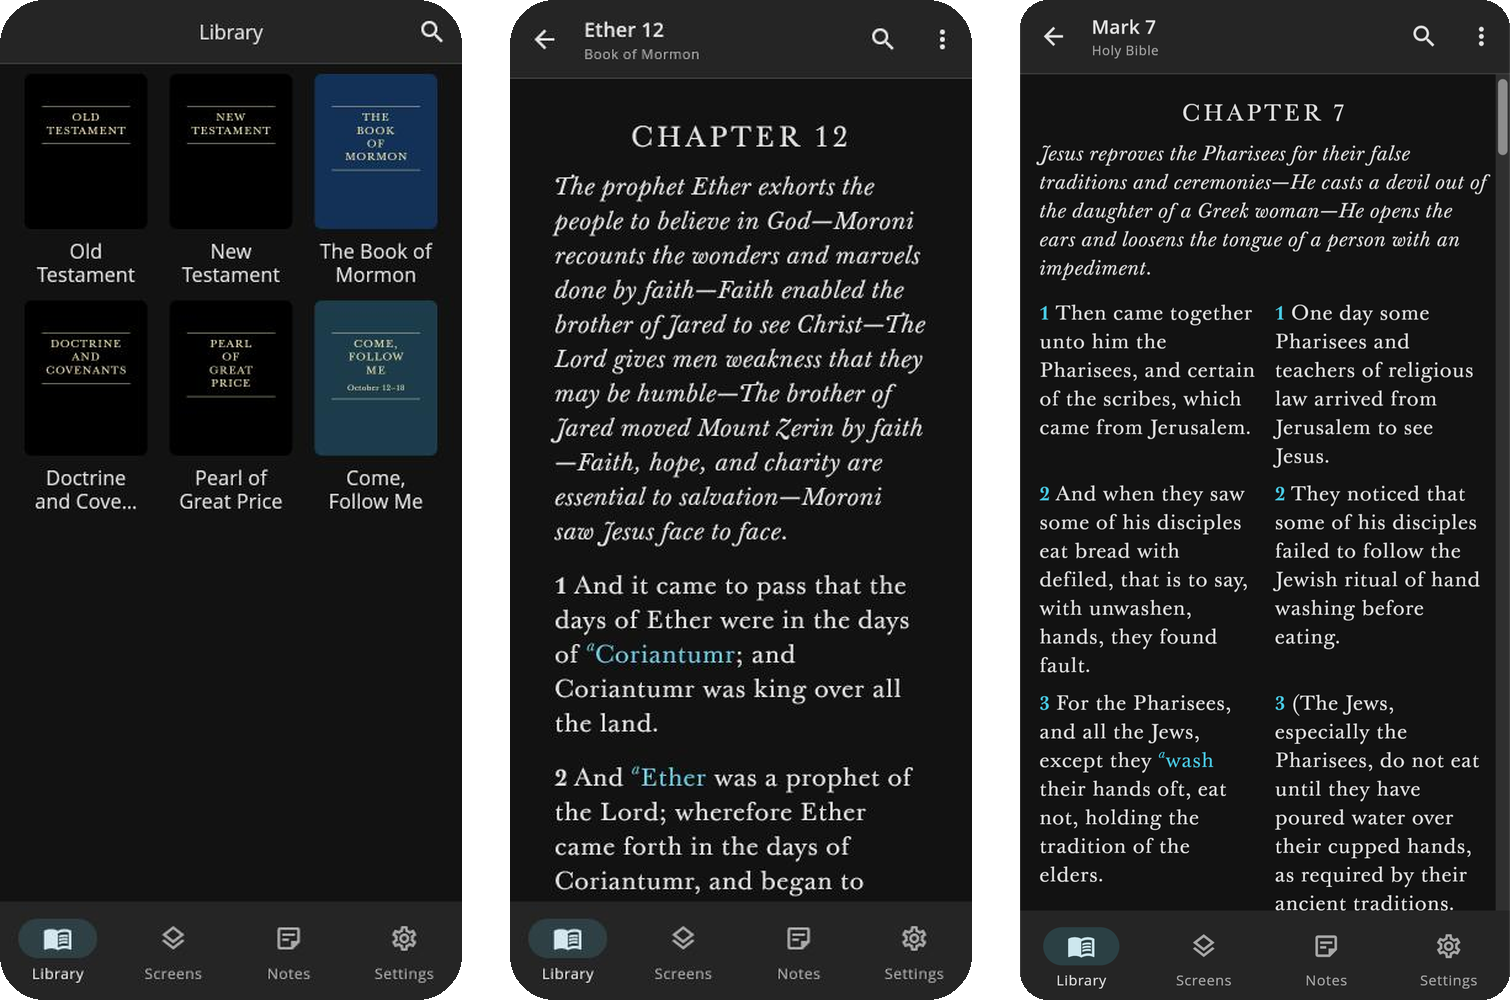
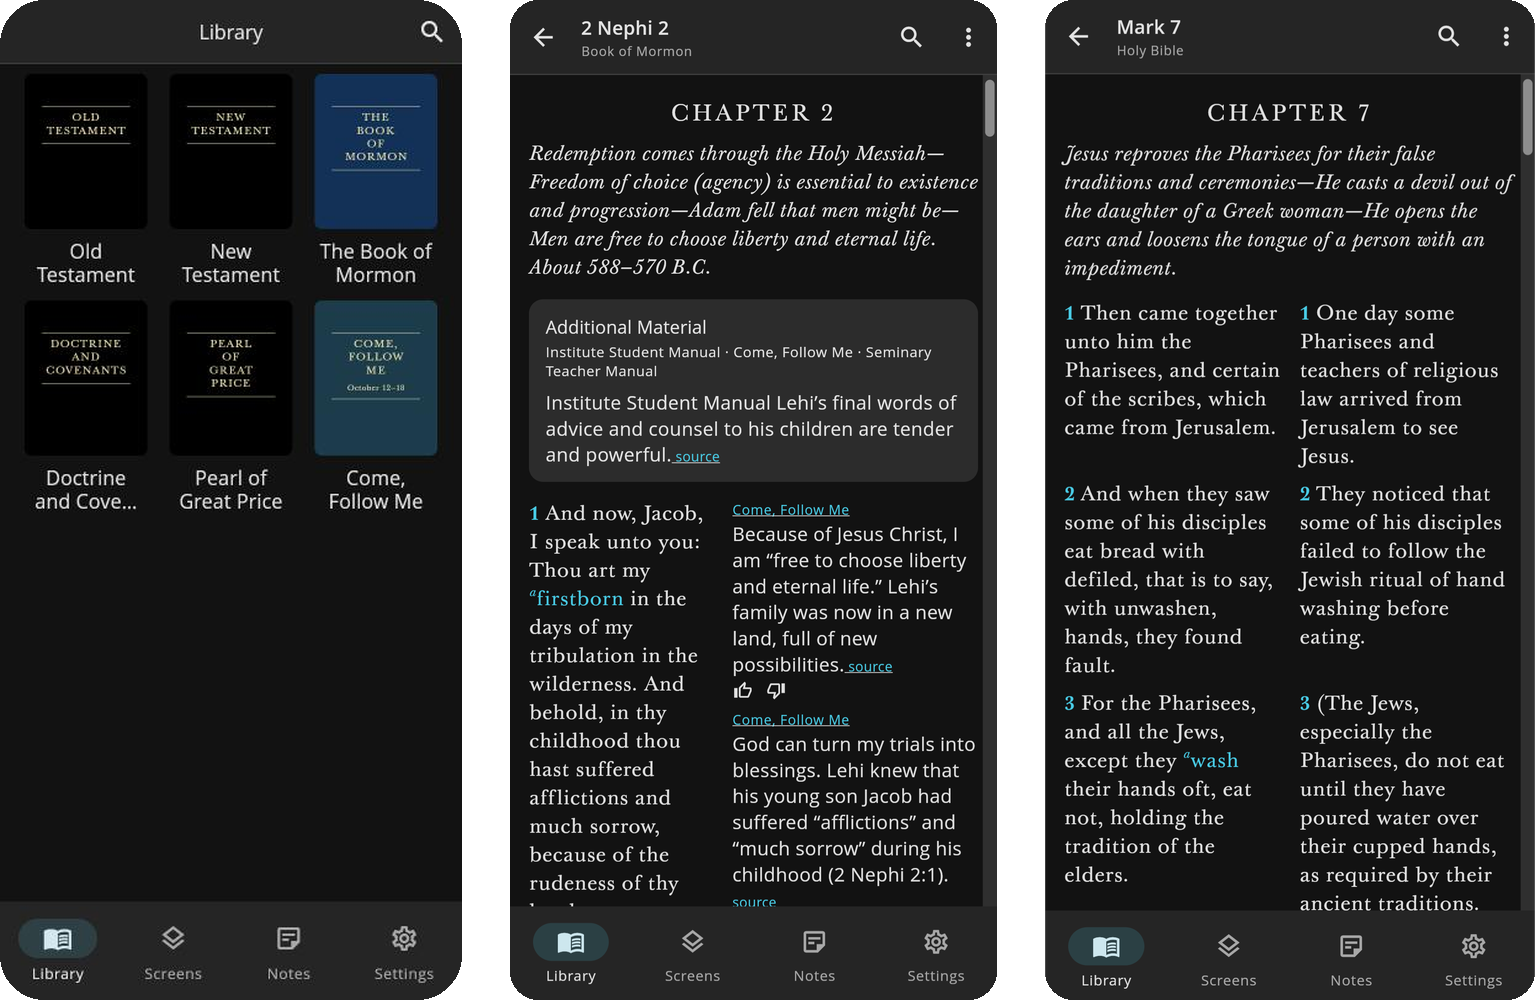
Show Gospel Library study notes beside verses
Claude-Session: https://claude.ai/code/session_017ufPofVa9qaWVYk2AGyS9g

diff --git a/README.md b/README.md
@@ -45,13 +45,13 @@ Spruce helps you keep track of the people you meet. After a conversation, you re
 
 ### Gospel Library 2.0
 
-A scripture reader for web, iOS, and Android. It covers the basics of the Gospel Library app and adds what I kept wishing it had: side-by-side compare across books and Bible translations, search by meaning instead of exact wording, and highlights and notes that sync across devices. You can import your highlights, notes, notebooks, and bookmarks from the official Gospel Library app, so switching over doesn't mean starting from scratch.
+A scripture reader for web, iOS, and Android. It covers the basics of the Gospel Library app and adds what I kept wishing it had: side-by-side compare across books and Bible translations, search by meaning instead of exact wording, study notes from Come, Follow Me and the Institute and Seminary manuals shown next to each verse, and highlights and notes that sync across devices. You can import your highlights, notes, notebooks, and bookmarks from the official Gospel Library app, so switching over doesn't mean starting from scratch.
 
 `Flutter` `Firebase` `OpenAI embeddings`
 
 [Live app](https://gosepl-library.web.app)
 
-<p align="center"><img src="assets/gospel-library.png" width="640" alt="Gospel Library 2.0 library, reader, and side-by-side KJV and NLT compare screens"></p>
+<p align="center"><img src="assets/gospel-library.png" width="640" alt="Gospel Library 2.0 library, reader with study notes beside each verse, and side-by-side KJV and NLT compare"></p>
 
 ### Budget
 
